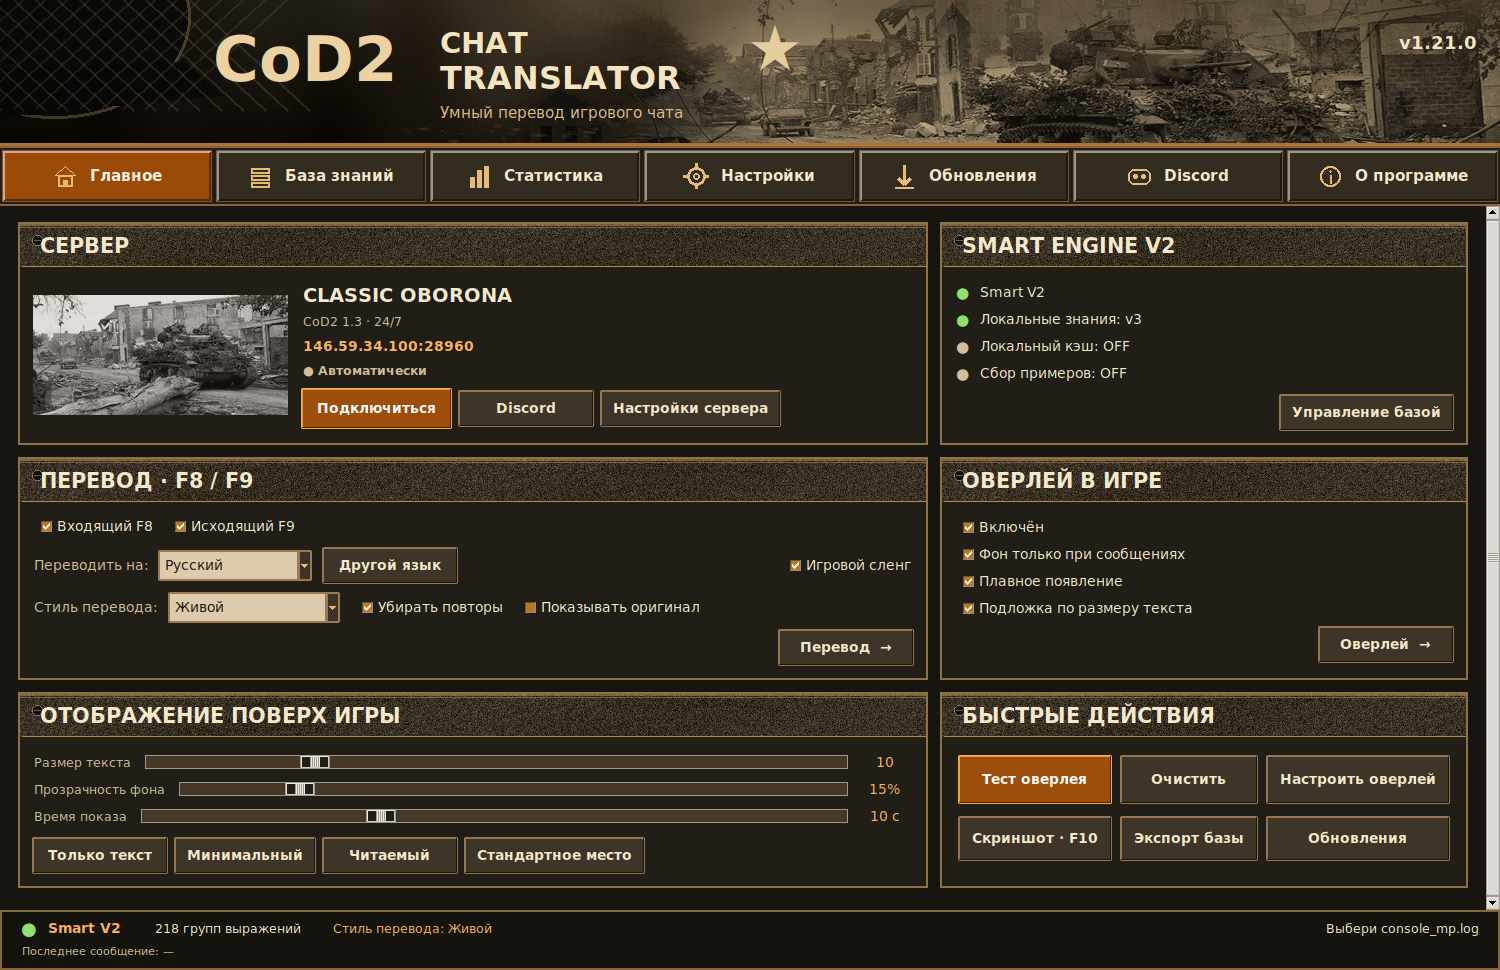
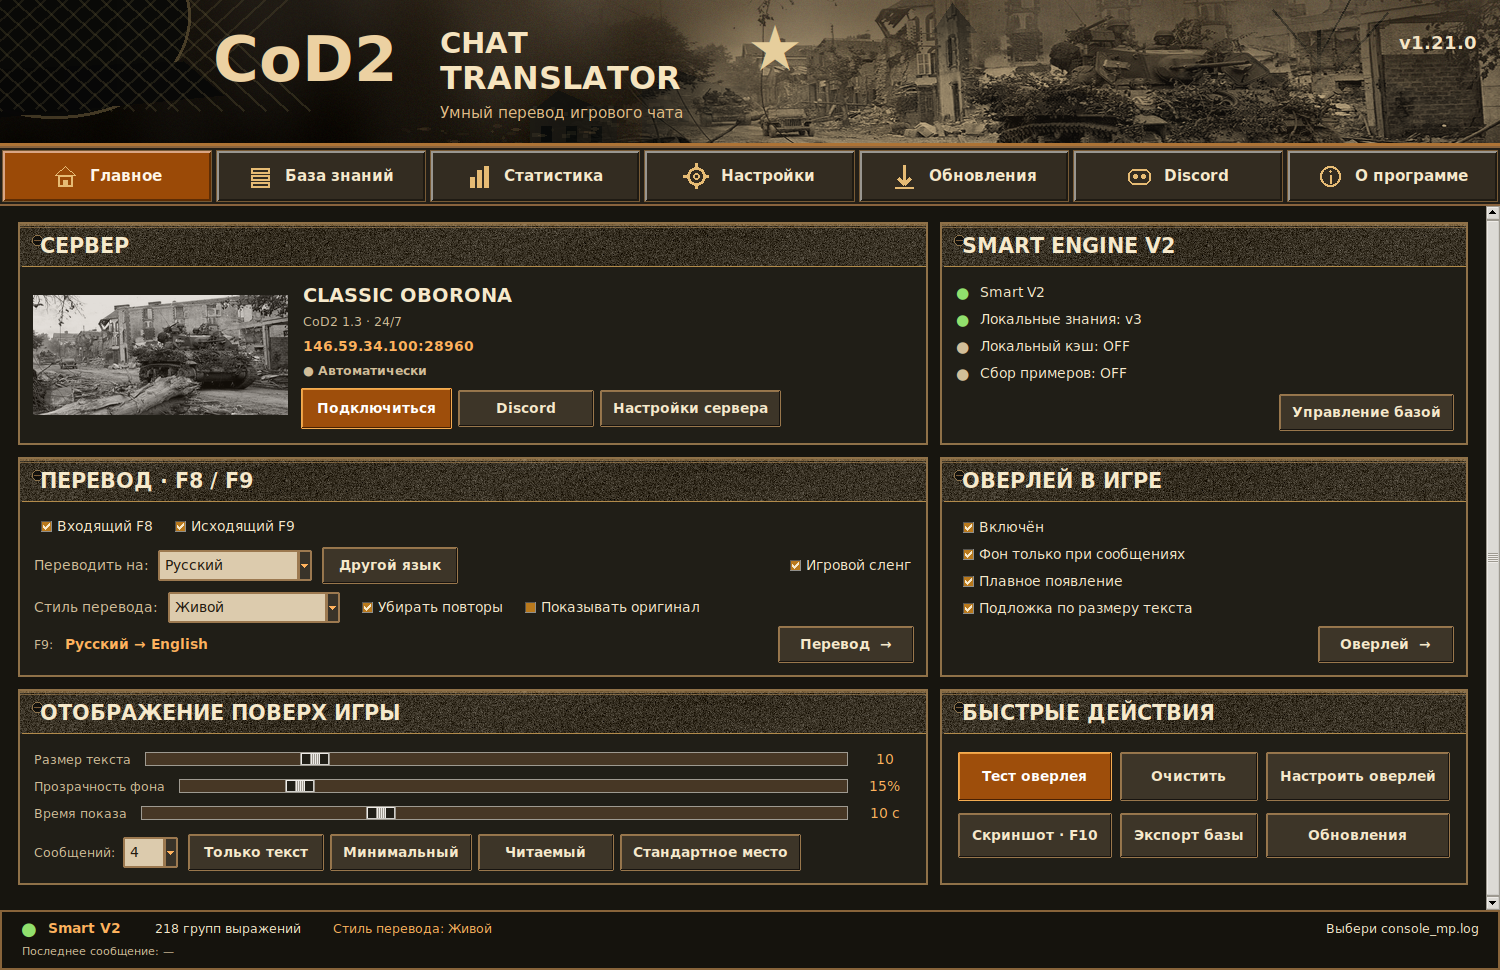
refine: expose F9 direction and real overlay message count on home

Changed region(s): [[0.0, 0.6186, 0.9813, 0.9278]]

diff --git a/wwii_dashboard.py b/wwii_dashboard.py
@@ -225,7 +225,13 @@ class WWIIDashboard(Dashboard):
         style_combo.bind("<<ComboboxSelected>>",lambda _e:self.app._persist_settings())
         check(bottom,tr(self.app,"dedupe"),self.app.dedupe_var,self.app._persist_settings).pack(side="left",padx=5)
         check(bottom,tr(self.app,"original"),self.app.show_original_var,self.app.toggle_original).pack(side="left",padx=5)
-        action(p,tr(self.app,"translation")+"  →",lambda:self.navigate("translation")).pack(anchor="e",pady=(6,0))
+        direction=tk.Frame(p,bg=CARD)
+        direction.pack(fill="x",pady=(3,0))
+        text(direction,"F9:",color=MUTED,size=9).pack(side="left")
+        tk.Label(direction,textvariable=self.app.outgoing_chat.route_var,
+                 bg=CARD,fg=AMBER,font=(FONT,10,"bold")).pack(side="left",padx=8)
+        action(direction,tr(self.app,"translation")+"  →",
+               lambda:self.navigate("translation")).pack(side="right")
 
     def _home_overlay(self,p):
         for key,var,command in (
@@ -253,6 +259,12 @@ class WWIIDashboard(Dashboard):
             scale.pack(side="right",fill="x",expand=True,padx=(12,8))
         presets=tk.Frame(p,bg=CARD)
         presets.pack(fill="x",pady=(7,0))
+        from app import MIN_OVERLAY_MESSAGES,MAX_OVERLAY_MESSAGES
+        text(presets,tr(self.app,"messages")+":",color=MUTED,size=9).pack(side="left",padx=(0,6))
+        count=ttk.Combobox(presets,values=list(range(MIN_OVERLAY_MESSAGES,MAX_OVERLAY_MESSAGES+1)),
+                           textvariable=self.app.max_messages_var,state="readonly",width=3)
+        count.pack(side="left",padx=(0,10))
+        count.bind("<<ComboboxSelected>>",lambda _e:self.app._max_messages_changed())
         for label,command in (
             ("text_only",self.app.text_only_preset),("minimal",self.app.minimal_preset),
             ("readable",self.app.readable_preset),("standard",self.app.reset_overlay_position),

diff --git a/tests/test_wwii_ui_contract.py b/tests/test_wwii_ui_contract.py
@@ -27,6 +27,7 @@ class WWIIContractTests(unittest.TestCase):
                        "toggle_enabled","_outgoing_enabled_changed",
                        "_persist_settings","toggle_original",
                        "_font_slider","_background_slider","_ttl_slider",
+                       "_max_messages_changed",
                        "_background_only_changed","_compact_background_changed",
                        "_fade_changed","minimal_preset","readable_preset",
                        "text_only_preset","reset_overlay_position","test_overlay",
@@ -35,6 +36,8 @@ class WWIIContractTests(unittest.TestCase):
             self.assertIn(method,UI)
         self.assertIn('self.app.language_combo.bind("<<ComboboxSelected>>"',UI)
         self.assertIn('style_combo.bind("<<ComboboxSelected>>"',UI)
+        self.assertIn("textvariable=self.app.outgoing_chat.route_var",UI)
+        self.assertIn("textvariable=self.app.max_messages_var",UI)
 
     def test_texture_and_header_photos_bundled_as_data(self):
         for name,w,h in (("hero.png",1500,166),("server_scene.png",255,120),
